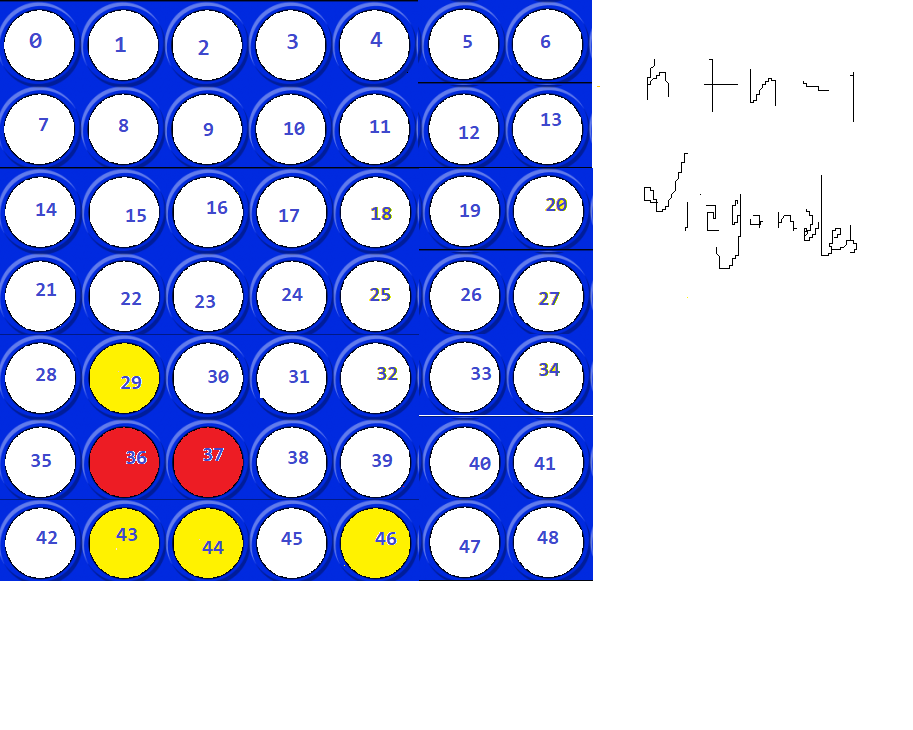
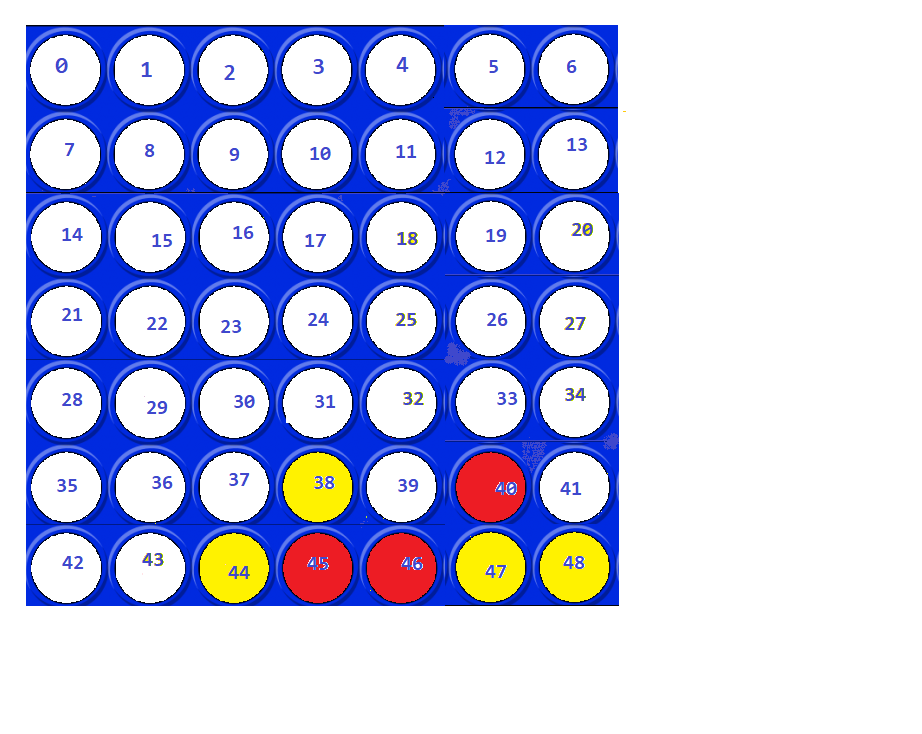
IA functions modified

diff --git a/src/IA.html b/src/IA.html
@@ -5,13 +5,13 @@
 <script>
 
 var matrix = [
-    1,0,0,0,0,0,1,
-    1,2,0,0,0,1,1,
-    1,2,0,0,0,1,1,
-    1,2,0,0,0,1,1,
-    1,1,0,0,0,1,2,
-    1,2,2,0,0,1,2,
-    1,1,1,0,1,1,2   
+    0,0,0,0,0,0,0,
+    0,0,0,0,0,0,0,
+    0,0,0,0,0,0,0,
+    0,0,0,0,0,2,0,
+    0,0,0,0,0,2,0,
+    0,0,0,1,0,2,0,
+    0,0,1,2,2,1,1
 ];
 
 var n = 7;
@@ -53,7 +53,7 @@ function printObject(dict) {
 
 function verticalMoves(rivalColor) {
     var winMoves = {};
-    document.write("<br>Vertical");
+    //document.write("<br>Vertical");
     var c = 0;
 
     // 
@@ -72,7 +72,7 @@ function verticalMoves(rivalColor) {
             j -= n;
             
             if (count >= 3 && matrix[j] == 0) {
-                document.write("<br>[win i: " + j + "]");
+                //document.write("<br>[win i: " + j + "]");
                 winMoves = addToObject(winMoves, j); // añade indice al gane
             }
         }
@@ -86,7 +86,7 @@ function horizontalMoves(rivalColor) {
     var winMoves = {};
     
     var c = 0;
-    document.write("<br><br>Horizontal")
+    //document.write("<br><br>Horizontal")
     // LINEA A LINEA
     for (var i=(matrix.length - 1); i >= (n - 1); i-=n) {
         //document.write(" i: " + i);
@@ -113,13 +113,13 @@ function horizontalMoves(rivalColor) {
                 if (j + 3 <= i) {
                     // caso gana por la derecha en la última fila
                     if (i == (matrix.length - 1) && matrix[j+4] == 0) {
-                        document.write("<br>[win: " + (j+4) + "]");
+                        //document.write("<br>[win: " + (j+4) + "]");
                         winMoves = addToObject(winMoves, (j+4)); // añade indice al gane
                     }
                     
                     // caso gana por la derecha demás filas (valida que la columna de abajo tenga ficha)
                     else if (matrix[j+4] == 0 && matrix[j + 4 + n] != 0) { // caso demás filas
-                        document.write("<br>[win: " + (j + 4) + "]");
+                        //document.write("<br>[win: " + (j + 4) + "]");
                         winMoves = addToObject(winMoves, (j+4)); // añade indice al gane
                     }
                 }
@@ -128,13 +128,13 @@ function horizontalMoves(rivalColor) {
                 if (j >= (i - (n - 1))) {
                     // caso gana por la izquierda en la última fila
                     if (i == (matrix.length - 1) && matrix[j] == 0) {
-                        document.write("<br>[win: " + j + "]");
+                        //document.write("<br>[win: " + j + "]");
                         winMoves = addToObject(winMoves, j); // añade indice al gane
                     }
                     
                     // caso gana izquierda demás filas (valida que la columna de abajo tenga ficha)
                     else if (matrix[j] == 0 && matrix[j + n] != 0) { // caso demás filas
-                        document.write("<br>[win: " + j + "]");
+                        //document.write("<br>[win: " + j + "]");
                         winMoves = addToObject(winMoves, j); // añade indice al gane
                     }
                 }
@@ -184,6 +184,7 @@ function searchWinMoves(color) {
     return winMoves;
 }
 
+// es innecesaria??
 function bestOptionToWin(winMoves) {
     // buscar el indice apropiado
     var index = -1;
@@ -195,17 +196,6 @@ function bestOptionToWin(winMoves) {
         }
     }
     return index;
-}
-
-function nextMove(cpuColor) {
-    // la idea sería hacer jugadas dobles
-    
-    // buscar todos los posibles indices donde se puede insertar ficha
-    var indexes = allPosiblesIndex();
-
-    // 
-    
-    return -4;
 }
 
 function allPosiblesIndex() {
@@ -222,6 +212,161 @@ function allPosiblesIndex() {
         }
     }
     return indexes;
+}
+
+
+// retorna indice del indice del tablero donde tiene mas chance de ganar
+// se puede armar jugada de gane? (tres fichas y una vacia)
+function simulatePosiblesMoves(cpuColor) {
+    
+    // buscar todos los posibles indices donde se puede insertar ficha
+    var indexes = allPosiblesIndex(); // [i, i, i, i]
+    var size = indexes.length;
+
+    var best = -1; // best index to move
+    var times = -1; // total of times that the player can win
+    
+    // Simulate every posible index
+    for(var i=0; i < size; i++) {
+        matrix[indexes[i]] = cpuColor; // se simula poner fichas en los indices que se pueden
+        //document.write("<br>-----------------------------<br>");
+        //document.write("<br>simulating " + indexes[i] + "<br>");
+        // once its simulate, it searches posibles wins
+        var posiblesWin = searchWinMoves(cpuColor);
+        
+        if (Object.keys(posiblesWin).length > 0) {
+
+            //document.write("<br><br>posibles win: ");
+            printObject(posiblesWin);
+            //document.write("<br>");
+
+            var timesTemp = 0; // total times that can win
+            for (var key in posiblesWin) {
+                //document.write("<br>Can win in " + key + " " + posiblesWin[key] + " times <br>");
+                timesTemp += posiblesWin[key];
+            }
+            //document.write("<br>total final times " + timesTemp + " <br>");
+            
+            if (timesTemp > times) {
+                times = timesTemp;
+                best = indexes[i];
+                //document.write("<br> is better <br>");
+            } else {
+                //document.write("<br> but isn't better <br>");
+            }
+
+        } else{
+            //document.write("<br> nothing <br>");
+        }
+
+        matrix[indexes[i]] = 0; // restablece a como estaba antes para
+    }
+
+    //document.write("<br>but the final best index is: " + best + "<br>");
+    return best; // returns -1 if there is no options
+}
+
+// Receives an index and returns its neighboring indices vertically, 
+// horizontally and diagonally.
+function neighbors(index, color) {
+    
+    var neigborsIndeces = [];
+
+    let row = Math.trunc(index / n); // Represents the index row
+    
+    // Vertical neighboring
+    //if (row > 0) // First row does not count
+        //neigborsIndeces.push(index - 7);
+
+    // Horizontal neighborings
+    /*
+    let tempIndex = index - 1;
+    let tempRow = Math.trunc(tempIndex / n);
+
+    // To the left
+    let shift = 2;
+    while (row == tempRow && shift > 0) {
+        // If found a blocking checker
+        if (matrix[tempIndex] != 0 && matrix[tempIndex] != color)
+            break;
+        if (matrix[tempIndex] == 0 || matrix[tempIndex] == color)
+            neigborsIndeces.push(tempIndex);
+    
+        tempIndex--;
+        tempRow = Math.trunc(tempIndex / n);    
+        shift--;
+    }
+    // To the right
+    tempIndex = index + 1;
+    tempRow = Math.trunc(tempIndex / n);
+
+    shift = 2;
+    while (row == tempRow && shift > 0) {
+        // If found a blocking checker
+        if (matrix[tempIndex] != 0 && matrix[tempIndex] != color)
+            break;
+        if (matrix[tempIndex] == 0 || matrix[tempIndex] == color)
+            neigborsIndeces.push(tempIndex);
+    
+        tempIndex++;
+        tempRow = Math.trunc(tempIndex / n);    
+        shift--;
+    }
+    */
+
+    // Diagonal neighborings
+    // To the (index - (n - 1)) up/right
+    /*
+    tempIndex = index - (n - 1);
+    tempRow = Math.trunc(tempIndex / n); // 0
+    upRow = tempRow - 1; // -1
+
+    if (Math.trunc(index / n) != tempRow) {
+        if ((matrix[tempIndex] == 0 || matrix[tempIndex] == color) && (upRow == (tempRow - 1))) {
+            neigborsIndeces.push(tempIndex);
+
+            tempIndex = tempIndex - (n - 1);
+            tempRow = Math.trunc(tempIndex / n); // 
+            upRow--; // 2
+            if ((matrix[tempIndex] == 0 || matrix[tempIndex] == color) && upRow == (tempRow - 1)) {
+                neigborsIndeces.push(tempIndex);
+            }
+        }
+    }*/
+
+    // To the (index - (n - 1)) up/right
+    tempIndex = index - (n + 1); // 20
+    tempRow = Math.trunc(tempIndex / n); // 2
+    upRow = tempRow - 1; // 1
+
+    if (Math.trunc(index / n) != (tempRow + 2)) {
+        if ((matrix[tempIndex] == 0 || matrix[tempIndex] == color) && (upRow == (tempRow - 1))) {
+            neigborsIndeces.push(tempIndex);
+
+            tempIndex = tempIndex - (n + 1);
+            tempRow = Math.trunc(tempIndex / n); // 
+            upRow--; // 2
+            if ((matrix[tempIndex] == 0 || matrix[tempIndex] == color) && upRow == (tempRow - 1)) {
+                neigborsIndeces.push(tempIndex);
+            }
+        }
+    }
+ 
+    return neigborsIndeces;
+}
+
+function nextMove(cpuColor) {
+    // la idea sería hacer jugadas dobles
+    
+    // se puede armar jugada de gane? (tres fichas y una vacia)
+    var index = simulatePosiblesMoves(cpuColor);
+    if (index != -1) {
+        return index;
+    }
+
+    // armar jugada de dos (dos fichas )
+    
+    return -4;
 }
 
 // 
@@ -246,50 +391,65 @@ function CPU_IA(cpuColor, rivalColor) {
     }
 
     // TO SEARCH NEXT MOVE
-    var index = nextMove(cpuColor);
-
-    return -2;
+    return nextMove(cpuColor);
 }
 
+function printMatrix() {
+    var c = 0;
+    for (var i=0; i<matrix.length; i++) {;
+        text = matrix[i] + "  |  ";
+        
+        //document.getElementById("demo").innerHTML = ;
+        document.write(text);
+
+        c++;
+        if(c==n) {
+            document.write("<br>");
+            c=0;
+        }
+    }
+
+    document.write("<br>");
+}
 // 1: amarillo
 // 2: rojo
-function sayHello() {
-    // buscar movimiento siguiente
-    // 0. si no hay fichas tirar al azar
-    // 0.1 VERIFICA SI TIENE MOVIMIENTOS DE GANE
-    // 1. buscar jugadas enemigas(INDICE) (falta diagonal)
-    // 1.2. si las hay bloquear la mejor
+// buscar movimiento siguiente
+// 0. si no hay fichas tirar al azar
+// 0.1 VERIFICA SI TIENE MOVIMIENTOS DE GANE
+// 1. buscar jugadas enemigas(INDICE) (falta diagonal)
+// 1.2. si las hay bloquear la mejor
 
-    // 2. buscar posición para jugar (next move)
-    // 3. Validar si esa posicion le da gane al contrario
-    // 3.1 si si: buscar otra jugada
-    // 3.2 si no: retornar indice
+// 2. buscar posición para jugar (next move)
+// 3. Validar si esa posicion le da gane al contrario
+// 3.1 si si: buscar otra jugada
+// 3.2 si no: retornar indice
+
+var turn = 1;
+
+function makeMove() {
     
-   //var next = CPU_IA();
-   
-   /*
-   for(var key in dict) {
-        var value = dict[key];
-        total += parseInt(key);
-        // do something with "key" and "value" variables
-        //document.write(" - key: " + key + " value: " + value);
+    var contrario;
+    var index;
+    var ant = turn;
+
+    if (turn==1){
+        index = CPU_IA(turn, 2);
+        matrix[index] = turn;
+    }else{
+        index = CPU_IA(turn, 1);
+        matrix[index] = turn;
     }
-    */
 
-    
-    var dict = {};
-    var rivalColor = 1;
-    dict = verticalMoves(rivalColor);
-    //dict = horizontalMoves(rivalColor);
-    dict = Object.assign(dict, horizontalMoves(rivalColor));
-    document.write("<br>Ganes:<br>");
-    printObject(dict);
+    turn = (turn == 1) ? 2 : 1;
+
+    printMatrix();
+    return "Se tiró ficha " + ant + " en indice " + index;
     
 }
 
-sayHello();
 </script>
 </head>
 <body>
+
 </body>
 </html>
